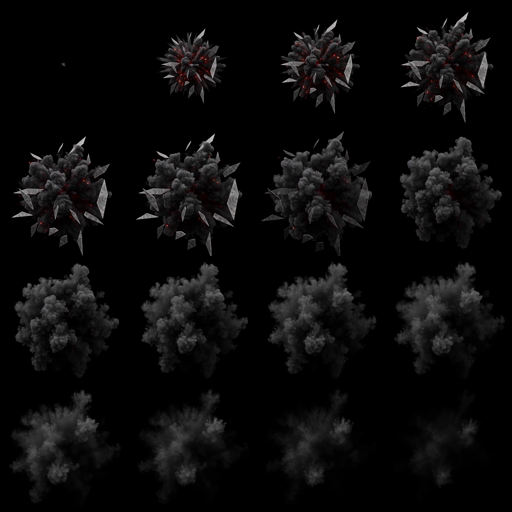
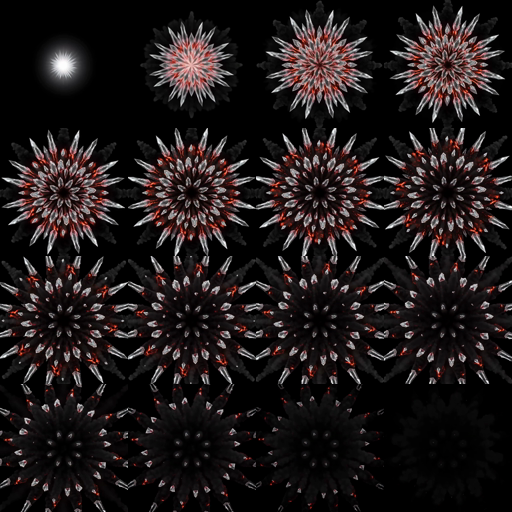
fx: +22-effect library expansion + brighter miss-shatter + scale defaults
22 new brand-aligned flipbook sheets covering every gameplay moment and
level theme, generated via Seedance 2.0 in a parallel workflow:
- core feedback: combo-burst, multiplier-up, note-comet, star-pickup,
  gradeup-flare, bomb-explode
- meters/loops: overdrive-aura, charge-loop, ember-rise, chrome-pulse-ring
- lane/string: lane-pulse, string-ripple
- Fracture: shard-burst
- Skully (violet): skull-flame-violet, soul-burst-violet
- Bone Daddy (bone/ember): bone-shatter, ember-skull-loop
- Melody (pink/cute): note-sparkle-pink, heart-pop-pink, paw-poof
- celebratory: confetti-pop, firework-gold
Re-rolled miss-shatter punchier/brighter. bomb-explode + confetti-pop
re-rolled for intent (violent detonation / scattered confetti).

manifest.json now 29 effects, each with a per-effect default scale;
fx-player.js honors meta.scale; preview.html + INTEGRATION.md updated.
All sheets 128px cells, additive, <=896px, node/json validated.

diff --git a/assets/fx/preview.html b/assets/fx/preview.html
@@ -74,13 +74,35 @@
 // only a fallback so the page still works when opened via file:// (where fetch
 // of a local JSON is blocked). Keep in sync if grid geometry changes.
 const FALLBACK = {
-  "hit-burst":{src:"assets/fx/hit-burst.png",frameW:128,frameH:128,cols:4,rows:4,count:16,fps:30,blend:"lighter",loop:false},
-  "perfect-flare":{src:"assets/fx/perfect-flare.png",frameW:128,frameH:128,cols:5,rows:4,count:20,fps:30,blend:"lighter",loop:false},
-  "explosion":{src:"assets/fx/explosion.png",frameW:128,frameH:128,cols:7,rows:4,count:28,fps:30,blend:"lighter",loop:false},
-  "shockwave":{src:"assets/fx/shockwave.png",frameW:128,frameH:128,cols:4,rows:4,count:16,fps:30,blend:"lighter",loop:false},
-  "fire-loop":{src:"assets/fx/fire-loop.png",frameW:128,frameH:128,cols:6,rows:4,count:24,fps:24,blend:"lighter",loop:true},
-  "miss-shatter":{src:"assets/fx/miss-shatter.png",frameW:128,frameH:128,cols:4,rows:4,count:16,fps:24,blend:"lighter",loop:false},
-  "soulwisp-violet":{src:"assets/fx/soulwisp-violet.png",frameW:128,frameH:128,cols:6,rows:4,count:24,fps:14,blend:"lighter",loop:true}
+  "hit-burst":{src:"assets/fx/hit-burst.png",frameW:128,frameH:128,cols:4,rows:4,count:16,fps:30,blend:"lighter",loop:false,scale:0.9},
+  "perfect-flare":{src:"assets/fx/perfect-flare.png",frameW:128,frameH:128,cols:5,rows:4,count:20,fps:30,blend:"lighter",loop:false,scale:1.2},
+  "explosion":{src:"assets/fx/explosion.png",frameW:128,frameH:128,cols:7,rows:4,count:28,fps:30,blend:"lighter",loop:false,scale:1.6},
+  "shockwave":{src:"assets/fx/shockwave.png",frameW:128,frameH:128,cols:4,rows:4,count:16,fps:30,blend:"lighter",loop:false,scale:1.4},
+  "fire-loop":{src:"assets/fx/fire-loop.png",frameW:128,frameH:128,cols:6,rows:4,count:24,fps:24,blend:"lighter",loop:true,scale:1.5},
+  "miss-shatter":{src:"assets/fx/miss-shatter.png",frameW:128,frameH:128,cols:4,rows:4,count:16,fps:24,blend:"lighter",loop:false,scale:1.0},
+  "soulwisp-violet":{src:"assets/fx/soulwisp-violet.png",frameW:128,frameH:128,cols:6,rows:4,count:24,fps:14,blend:"lighter",loop:true,scale:1.2},
+  "combo-burst":{src:"assets/fx/combo-burst.png",frameW:128,frameH:128,cols:5,rows:4,count:20,fps:30,blend:"lighter",loop:false,scale:1.3},
+  "multiplier-up":{src:"assets/fx/multiplier-up.png",frameW:128,frameH:128,cols:4,rows:4,count:16,fps:30,blend:"lighter",loop:false,scale:1.0},
+  "note-comet":{src:"assets/fx/note-comet.png",frameW:128,frameH:128,cols:4,rows:4,count:16,fps:30,blend:"lighter",loop:false,scale:0.9},
+  "star-pickup":{src:"assets/fx/star-pickup.png",frameW:128,frameH:128,cols:6,rows:3,count:18,fps:30,blend:"lighter",loop:false,scale:1.0},
+  "gradeup-flare":{src:"assets/fx/gradeup-flare.png",frameW:128,frameH:128,cols:6,rows:4,count:24,fps:30,blend:"lighter",loop:false,scale:1.6},
+  "bomb-explode":{src:"assets/fx/bomb-explode.png",frameW:128,frameH:128,cols:6,rows:4,count:24,fps:30,blend:"lighter",loop:false,scale:1.5},
+  "overdrive-aura":{src:"assets/fx/overdrive-aura.png",frameW:128,frameH:128,cols:6,rows:4,count:24,fps:24,blend:"lighter",loop:true,scale:1.6},
+  "charge-loop":{src:"assets/fx/charge-loop.png",frameW:128,frameH:128,cols:6,rows:4,count:24,fps:24,blend:"lighter",loop:true,scale:1.2},
+  "ember-rise":{src:"assets/fx/ember-rise.png",frameW:128,frameH:128,cols:6,rows:4,count:24,fps:20,blend:"lighter",loop:true,scale:1.6},
+  "chrome-pulse-ring":{src:"assets/fx/chrome-pulse-ring.png",frameW:128,frameH:128,cols:4,rows:4,count:16,fps:24,blend:"lighter",loop:true,scale:1.0},
+  "lane-pulse":{src:"assets/fx/lane-pulse.png",frameW:128,frameH:128,cols:4,rows:4,count:16,fps:30,blend:"lighter",loop:false,scale:1.0},
+  "string-ripple":{src:"assets/fx/string-ripple.png",frameW:128,frameH:128,cols:4,rows:4,count:16,fps:30,blend:"lighter",loop:false,scale:1.0},
+  "shard-burst":{src:"assets/fx/shard-burst.png",frameW:128,frameH:128,cols:5,rows:4,count:20,fps:30,blend:"lighter",loop:false,scale:1.3},
+  "skull-flame-violet":{src:"assets/fx/skull-flame-violet.png",frameW:128,frameH:128,cols:6,rows:4,count:24,fps:24,blend:"lighter",loop:true,scale:1.4},
+  "soul-burst-violet":{src:"assets/fx/soul-burst-violet.png",frameW:128,frameH:128,cols:5,rows:4,count:20,fps:30,blend:"lighter",loop:false,scale:1.3},
+  "bone-shatter":{src:"assets/fx/bone-shatter.png",frameW:128,frameH:128,cols:5,rows:4,count:20,fps:30,blend:"lighter",loop:false,scale:1.3},
+  "ember-skull-loop":{src:"assets/fx/ember-skull-loop.png",frameW:128,frameH:128,cols:6,rows:4,count:24,fps:24,blend:"lighter",loop:true,scale:1.4},
+  "note-sparkle-pink":{src:"assets/fx/note-sparkle-pink.png",frameW:128,frameH:128,cols:6,rows:3,count:18,fps:30,blend:"lighter",loop:false,scale:1.0},
+  "heart-pop-pink":{src:"assets/fx/heart-pop-pink.png",frameW:128,frameH:128,cols:4,rows:4,count:16,fps:30,blend:"lighter",loop:false,scale:1.0},
+  "paw-poof":{src:"assets/fx/paw-poof.png",frameW:128,frameH:128,cols:4,rows:4,count:16,fps:24,blend:"lighter",loop:false,scale:1.0},
+  "confetti-pop":{src:"assets/fx/confetti-pop.png",frameW:128,frameH:128,cols:6,rows:4,count:24,fps:30,blend:"lighter",loop:false,scale:1.6},
+  "firework-gold":{src:"assets/fx/firework-gold.png",frameW:128,frameH:128,cols:6,rows:4,count:24,fps:30,blend:"lighter",loop:false,scale:1.6}
 };
 
 const BG = {

diff --git a/assets/fx/fx-player.js b/assets/fx/fx-player.js
@@ -79,7 +79,7 @@
     var inst = {
       meta: meta, img: this.images[name],
       x: x, y: y,
-      scale: opts.scale != null ? opts.scale : 1,
+      scale: opts.scale != null ? opts.scale : (meta.scale != null ? meta.scale : 1),
       rot: opts.rot || 0,
       alpha: opts.alpha != null ? opts.alpha : 1,
       loop: opts.loop != null ? opts.loop : !!meta.loop,

diff --git a/assets/fx/INTEGRATION.md b/assets/fx/INTEGRATION.md
@@ -5,17 +5,22 @@ Generated sprite-sheet (flipbook) particle FX for Reactive Rhythm. Brand-aligned
 only** — no game code was touched. This doc is the contract for wiring it in.
 
 ## What's in the pack
-7 sheets, each 128×128 cells, RGB on pure black, built for **additive** blending.
+29 sheets, each 128×128 cells, RGB on pure black, built for **additive** blending.
+Every entry's grid + fps + loop + a suggested default `scale` live in `manifest.json`
+— read those at runtime, don't hard-code. Effects by category:
 
-| effect | grid | frames | fps | loop | use |
-|---|---|---|---|---|---|
-| `hit-burst` | 4×4 | 16 | 30 | no | normal note hit |
-| `perfect-flare` | 5×4 | 20 | 30 | no | perfect / accent hit |
-| `explosion` | 7×4 | 28 | 30 | no | big combo / star / overdrive pop |
-| `shockwave` | 4×4 | 16 | 30 | no | impact ring (pairs well under explosion) |
-| `fire-loop` | 6×4 | 24 | 24 | **yes** | burning strings at high combo |
-| `miss-shatter` | 4×4 | 16 | 24 | no | miss / bomb hit (intentionally muted/dark) |
-| `soulwisp-violet` | 6×4 | 24 | 14 | **yes** | ambient drift for the Skully level |
+- **Core hit feedback (one-shot):** `hit-burst` (normal hit), `perfect-flare` (perfect/accent),
+  `combo-burst` (combo milestone), `multiplier-up` (multiplier up), `note-comet` (per-note streak),
+  `star-pickup` (collectible), `explosion` (big pop), `shockwave` (impact ring),
+  `gradeup-flare` (grade up), `bomb-explode` (bomb/hazard), `miss-shatter` (miss).
+- **Sustained loops:** `fire-loop` (burning strings), `overdrive-aura` (star power active),
+  `charge-loop` (meter building), `ember-rise` (warm ambient), `chrome-pulse-ring` (catcher idle).
+- **Lane / string (one-shot):** `lane-pulse` (lane strike column), `string-ripple` (strum wave).
+- **Fracture tier:** `shard-burst` (glass shatter).
+- **Skully tier (violet):** `skull-flame-violet` (loop aura), `soul-burst-violet` (hit), `soulwisp-violet` (ambient loop).
+- **Bone Daddy tier (bone/ember):** `bone-shatter` (hit), `ember-skull-loop` (loop aura).
+- **Melody tier (pink/cute):** `note-sparkle-pink` (musical sparkle), `heart-pop-pink` (heart), `paw-poof` (cat-paw).
+- **Celebratory:** `confetti-pop` (level clear), `firework-gold` (results).
 
 Source clips are in `_src/*.mp4`; extracted frames are gitignored. Rebuild any
 sheet with `python build_sheet.py <name> --count N --cols C --rows R [--loop]`.
@@ -23,13 +28,15 @@ sheet with `python build_sheet.py <name> --count N --cols C --rows R [--loop]`.
 ## Manifest contract (`manifest.json`)
 One JSON object, `name -> meta`:
 ```json
-"hit-burst": { "src":"assets/fx/hit-burst.png", "frameW":128, "frameH":128,
-               "cols":4, "rows":4, "count":16, "fps":30, "blend":"lighter", "loop":false }
+"hit-burst": { "src":"assets/fx/hit-burst.png", "frameW":128, "frameH":128, "cols":4,
+               "rows":4, "count":16, "fps":30, "blend":"lighter", "loop":false, "scale":0.9 }
 ```
 - `src` is **repo-root-relative**. The loader resolves the actual image by
   *basename next to manifest.json*, so it works at `/` or a subpath like `/play`.
 - `count` may be < `cols*rows` (last cells unused) — always honor `count`.
 - `blend:"lighter"` ⇒ draw with `ctx.globalCompositeOperation = "lighter"`.
+- `scale` is a suggested default size multiplier (1 ⇒ 128px on screen). `FxPlayer.play()`
+  uses it when you don't pass an explicit `opts.scale`; tune to lane width as needed.
 
 ## Drop-in player (`fx-player.js`) — recommended
 Vanilla Canvas2D, no deps, `node --check` clean. Add the script, then: